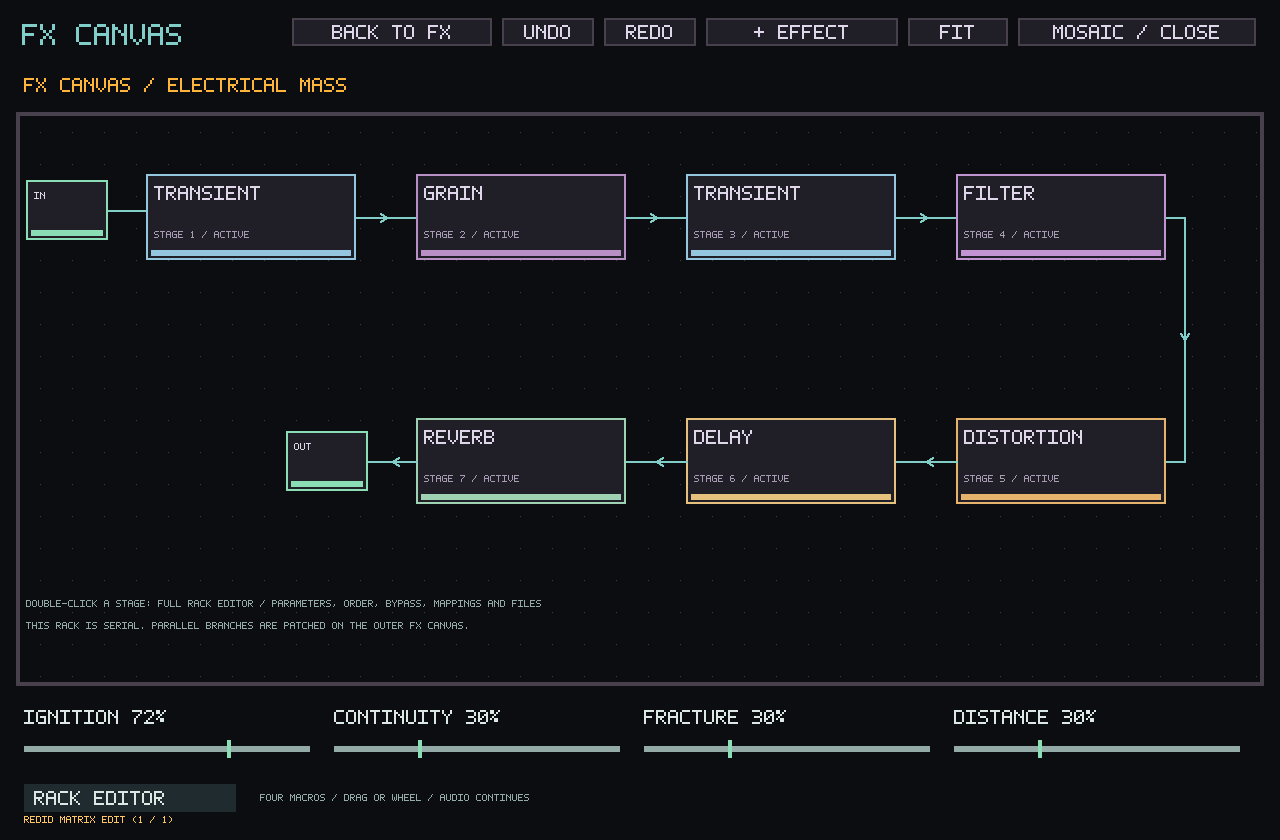
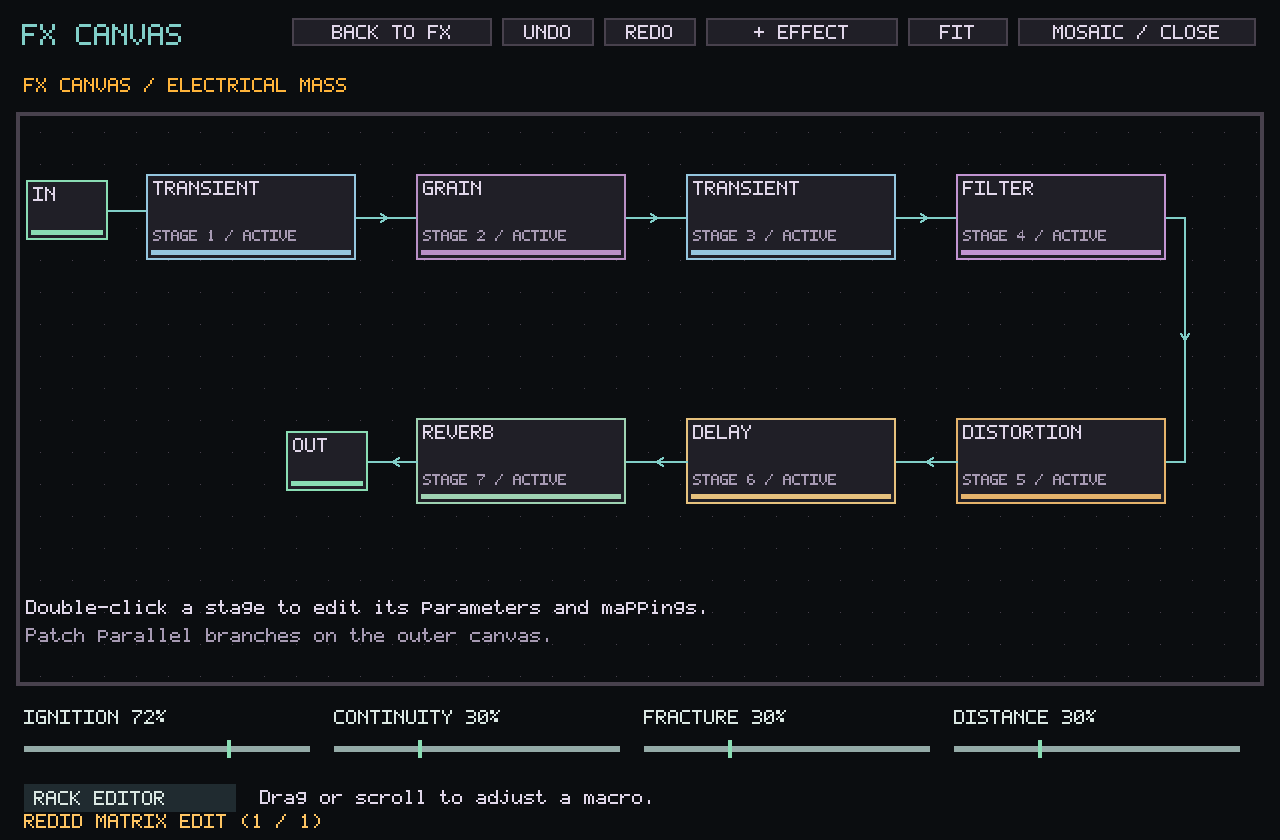
Draw FX Canvas text at display resolution and wrap module names

diff --git a/tests/test_fx_canvas_controller.c b/tests/test_fx_canvas_controller.c
@@ -29,12 +29,69 @@ static FxCanvasNode *node(int row)
 {for(int i=0;i<fx_canvas.count;++i)if(fx_canvas.node[i].row.kind==2 && fx_canvas.node[i].row.index==row)return &fx_canvas.node[i];return NULL;}
 static FxCanvasNode *instance(uint32_t id)
 {for(int i=0;i<fx_canvas.count;++i)if(fx_canvas.node[i].row.kind==4 && fx_canvas.node[i].row.tile==id)return &fx_canvas.node[i];return NULL;}
+static SDL_Surface *rendered_frame(void)
+{
+    MatrixWindow *w=&matrix_window;w->palette=ui.palette;
+    mx_draw_frame(&audio,&pages,&bank);
+    int width,height;assert(SDL_GetRendererOutputSize(w->renderer,&width,&height)==0);
+    SDL_Surface *surface=SDL_CreateRGBSurfaceWithFormat(0,width,height,32,SDL_PIXELFORMAT_ARGB8888);
+    assert(surface && SDL_RenderReadPixels(w->renderer,NULL,surface->format->format,surface->pixels,surface->pitch)==0);
+    return surface;
+}
 static void screenshot(const char *path)
 {
-    matrix_window.palette=ui.palette;
-    fx_paint(&audio,&pages,&bank);
-    SDL_Surface *s=SDL_CreateRGBSurfaceFrom(matrix_window.pixels,MATRIX_W,MATRIX_H,32,MATRIX_W*4,0xff0000,0xff00,0xff,0);
-    assert(s && !SDL_SaveBMP(s,path));SDL_FreeSurface(s);
+    SDL_Surface *frame=rendered_frame();
+    assert(!SDL_SaveBMP(frame,path));SDL_FreeSurface(frame);
+}
+/* Check the 5 x 7 letter from pixels actually presented by SDL, including the
+   smaller parameter font and the second line of a wrapped graph-node title. */
+static void check_letter(SDL_Surface *frame,int x,int y,char letter,int scale,uint32_t ink)
+{
+    FxFontMetrics f=fx_font(scale);
+    const char *bits=ts_ui_glyph(letter);
+    for(int r=0;r<7;++r)for(int c=0;c<5;++c) {
+        assert(f.rows[r+1]>f.rows[r] && f.columns[c+1]>f.columns[c]);
+        int px=mx_px(x)+(f.columns[c]+f.columns[c+1]-1)/2;
+        int py=mx_py(y)+(f.rows[r]+f.rows[r+1]-1)/2;
+        assert(px>=0 && px<frame->w && py>=0 && py<frame->h);
+        const uint32_t *row=(const uint32_t *)((const char *)frame->pixels+py*frame->pitch);
+        assert(((row[px]&0xffffff)==(ink&0xffffff))==(bits[r*5+c]=='1'));
+    }
+}
+static void laptop_legibility(const char *dir,uint32_t effect_id)
+{
+    MatrixWindow *w=&matrix_window;
+    static TsMatrixLayout saved;saved=*w->layout;
+    int oldw,oldh;SDL_GetWindowSize(w->window,&oldw,&oldh);
+    uint32_t old_effect=w->effect_open;
+    const int sizes[][2]={{1366,699},{960,630},{1920,1080}};
+    for(size_t i=0;i<sizeof(sizes)/sizeof(*sizes);++i) {
+        SDL_SetWindowSize(w->window,sizes[i][0],sizes[i][1]);
+        w->layout->canvas_zoom=.70f;w->layout->canvas_x=40;w->layout->canvas_y=40;
+        w->effect_open=0;fx_clear_selection();
+        SDL_Surface *frame=rendered_frame();
+        assert(frame->w==w->pixel_w && frame->h==w->pixel_h);
+        FxCanvasNode *bus=node(TS_MATRIX_TRACKER);assert(bus);
+        check_letter(frame,fx_x(bus->x)+7,fx_y(bus->y)+7+fx_line_height(fx_font(2)),'B',2,FX_TEXT);
+        char path[1024];
+        if(dir && !i){snprintf(path,sizeof(path),"%s/idle.bmp",dir);assert(!SDL_SaveBMP(frame,path));}
+        SDL_FreeSurface(frame);
+        w->effect_open=effect_id;fx_select(instance(effect_id),0);
+        frame=rendered_frame();
+        check_letter(frame,32,735,'M',1,ts_theme_color(&w->palette,TS_THEME_MOSAIC,TS_COLOR_TEXT,0xffdbe8e3u));
+        if(dir && !i){snprintf(path,sizeof(path),"%s/effect.bmp",dir);assert(!SDL_SaveBMP(frame,path));}
+        SDL_FreeSurface(frame);
+        int slot=mx_effect_slot();assert(slot>=0);
+        float before=w->controls.effect[slot].meta.macro[3];
+        click(1200,430,1);assert(!w->drag && w->controls.effect[slot].meta.macro[3]>before);
+        key(SDLK_z,KMOD_CTRL);assert(w->controls.effect[slot].meta.macro[3]==before);
+        fx_view(0,&pages,&bank);frame=rendered_frame();
+        assert(w->pixel_w==MATRIX_W && w->pixel_h==MATRIX_H);
+        SDL_FreeSurface(frame);fx_view(1,&pages,&bank);
+    }
+    w->effect_open=old_effect;*w->layout=saved;SDL_SetWindowSize(w->window,oldw,oldh);
+    fx_build(&pages,&bank);
+    if(instance(old_effect))fx_select(instance(old_effect),0);
 }
 static void view_codec(void)
 {
@@ -286,6 +343,7 @@ int main(int argc,char **argv)
     matrix_window.effect_open=c.effect[meta].id;
     for(int i=0;i<fx_canvas.count;++i)if(fx_canvas.node[i].row.kind==4 && fx_canvas.node[i].row.tile==c.effect[meta].id)fx_select(&fx_canvas.node[i],0);
     if(argc>1)screenshot(argv[1]);
+    laptop_legibility(getenv("TS_FX_PREVIEW"),c.effect[meta].id);
     if(argc>3) {
         static TsFramebuffer fb;ts_ui_render(&fb,&ui,&bank);
         SDL_Surface *s=SDL_CreateRGBSurfaceFrom(fb.pixels,640,400,32,640*4,0xff0000,0xff00,0xff,0);assert(s && !SDL_SaveBMP(s,argv[3]));SDL_FreeSurface(s);

diff --git a/docs/FX_CANVAS.md b/docs/FX_CANVAS.md
@@ -96,7 +96,12 @@ accents. Audio cables are teal, sidechains purple, and delayed feedback amber.
 Selected modules have an amber border; bypassed effects are gray. STRAIGHT /
 SPLINES switches the cable path used for both drawing and selection.
 
-The screenshots below are native application captures.
+Node titles wrap across two lines when space permits. The inspector shows the full
+selected name or cable endpoints and level. Selecting a node emphasizes its cables;
+selecting a cable highlights that path. The FX window draws its bitmap lettering
+at the display resolution so small strokes remain visible on a laptop screen.
+
+The screenshots below are native application captures. The [laptop overview](screenshots/fx-canvas/laptop.png) shows the inspector and shortcuts at 1366 × 699 and 70% zoom.
 
 ![FX Canvas](screenshots/fx-canvas/canvas.png)
 ![Inside a Meta FX](screenshots/fx-canvas/inside.png)
